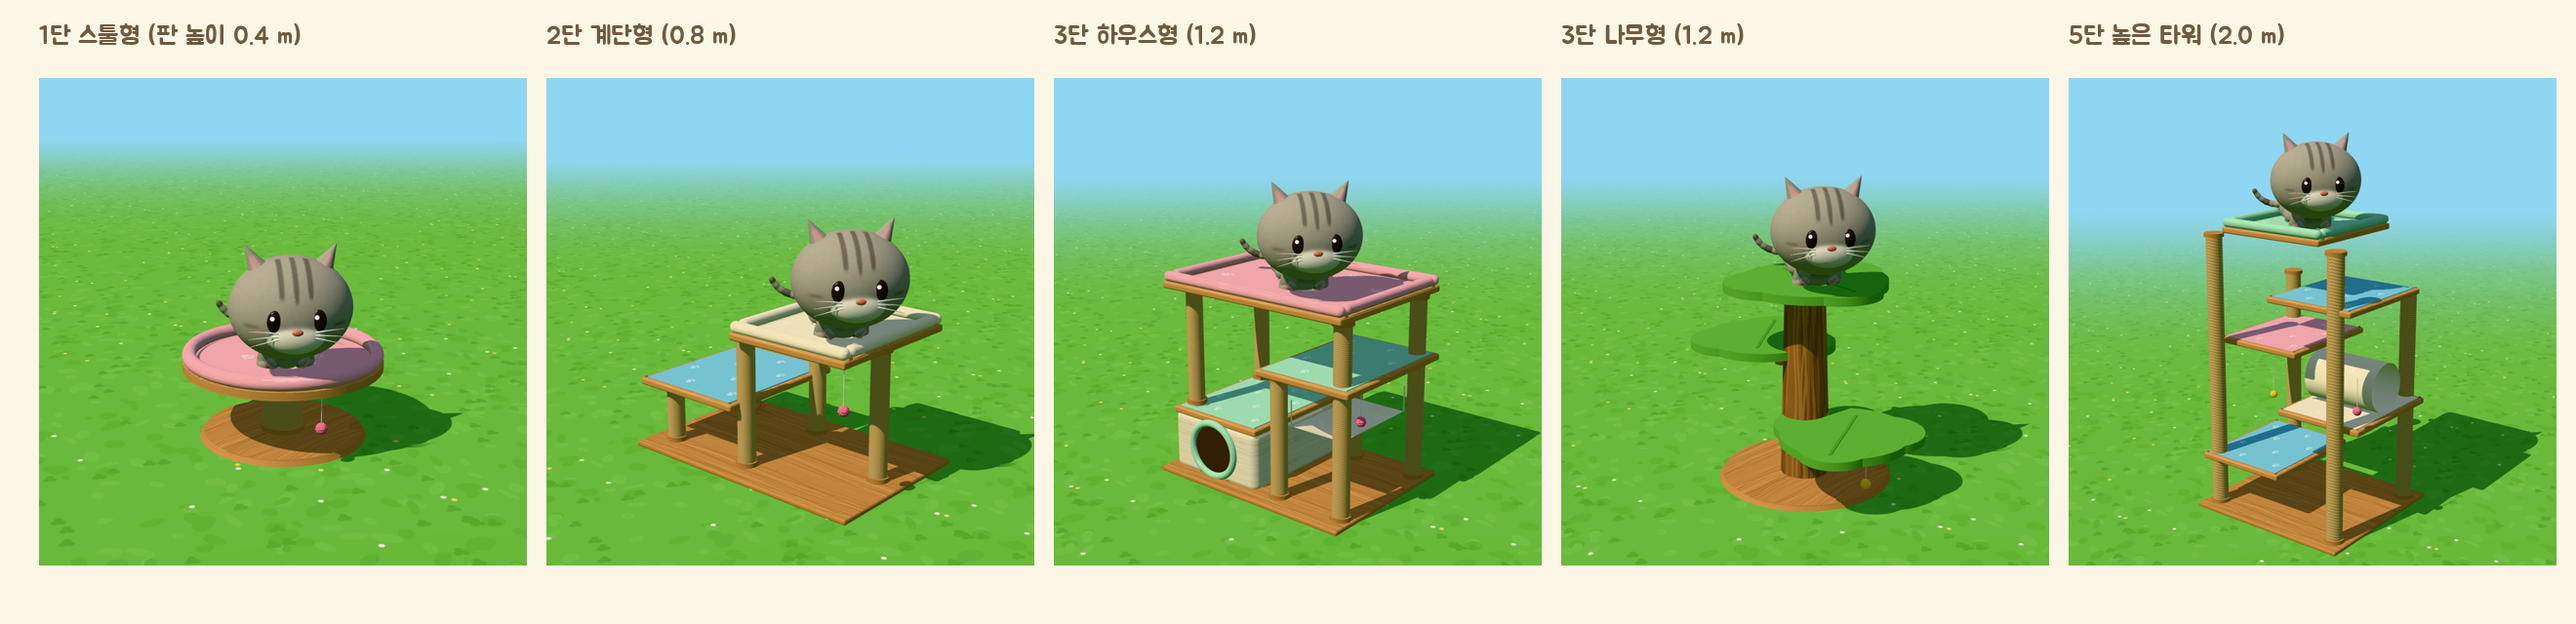
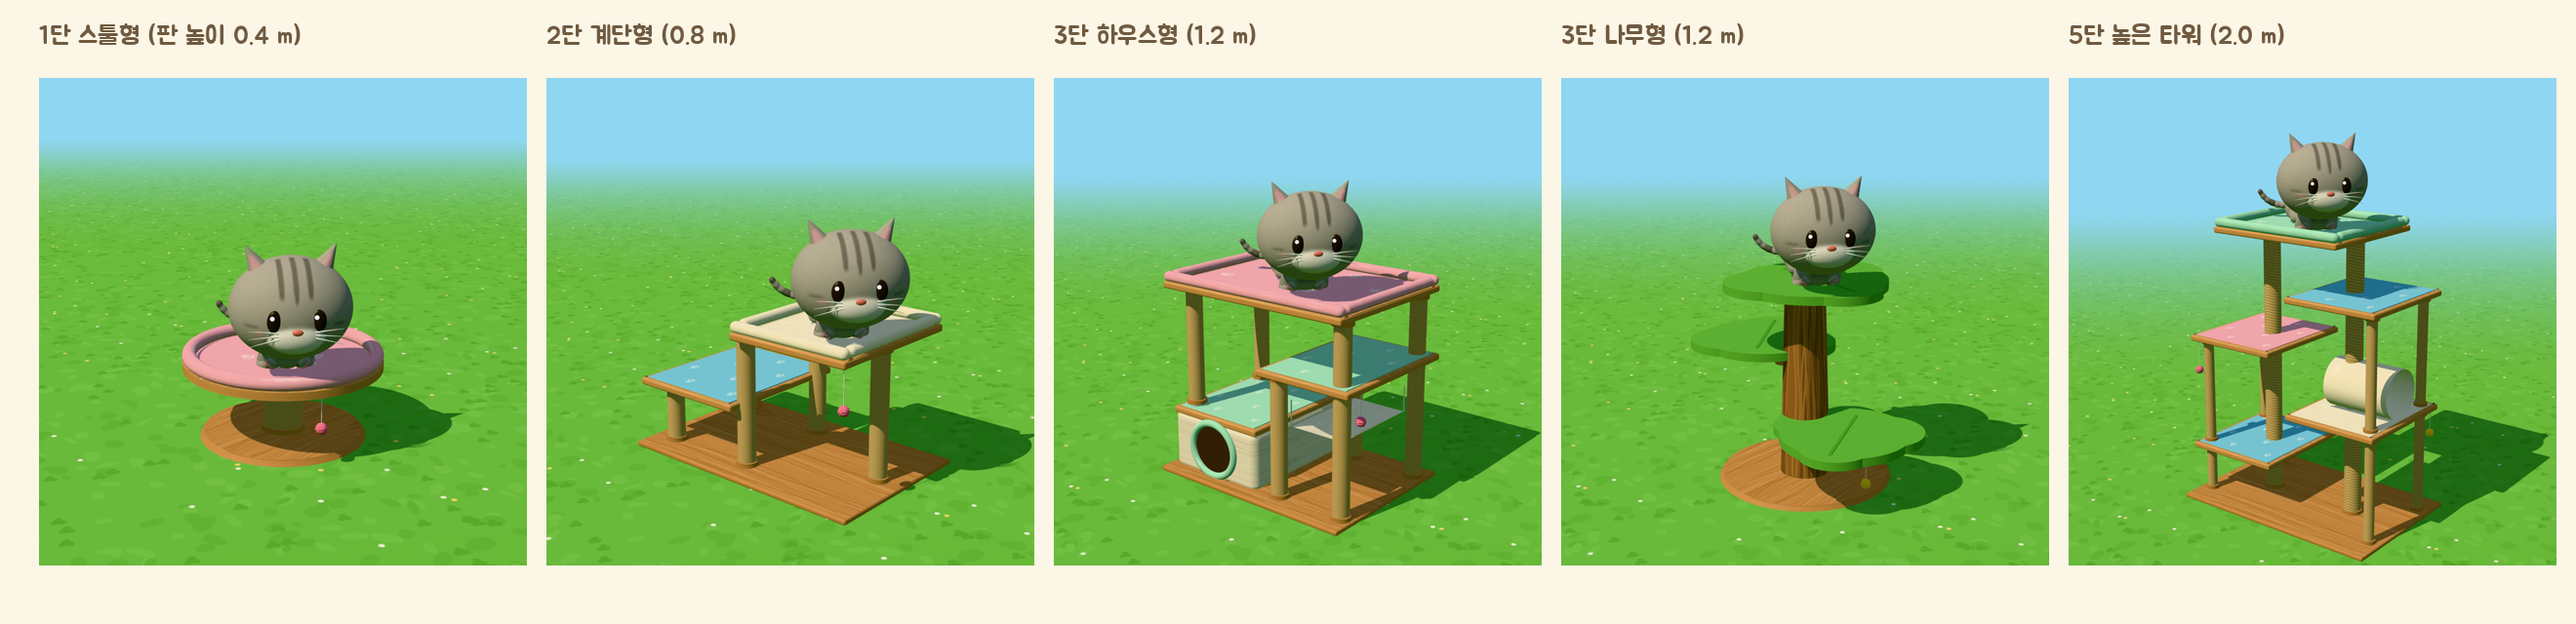
Cat tower 5-level: a real structure (two full-height columns through the decks, outer support posts, top bed on both columns, tunnel on level 2)
Claude-Session: https://claude.ai/code/session_015vjHDFNeuhZBMk9pB9WgeS

Changed region(s): [[0.8386, 0.2188, 0.9939, 0.9062]]

diff --git a/cat-island/prototype/3d/items_detail.html b/cat-island/prototype/3d/items_detail.html
@@ -246,12 +246,21 @@ const TOWERS = {
     for (const [x, y, z] of [[.38, STEP, .1], [-.36, 2 * STEP, -.05], [.05, 3 * STEP + .02, -.2]]) K.post(g, x * .55, z * .55, y - .14, y - .04, .035, K.M.bark);
     K.pompom(g, .6, STEP - .04, .2, .16, '#ffd23f'); } },
   // 5. tall: five levels, a tunnel on level two, toys
-  tall: { ko: '5단 높은 타워', top: [-.05, 5 * STEP, 0], build: g => { const K = KIT; K.base(g, 1.2, 1.1);
-    const L = [[-.25, .1, K.M.blue], [.3, -.05, K.M.cream], [-.25, -.1, K.M.pink], [.3, .05, K.M.blue], [-.05, 0, K.M.mint]];
-    K.post(g, -.5, -.42, .03, 4 * STEP - .04, .055); K.post(g, .5, .42, .03, 5 * STEP - .04, .055); K.post(g, .5, -.42, .03, 4 * STEP - .04, .055); K.post(g, -.5, .42, .03, 5 * STEP - .04, .055);
-    L.forEach(([x, z, m], i) => { const y = (i + 1) * STEP; K.deck(g, x, y, z, i === 4 ? .8 : .66, .8, m, i === 4); K.screws(g, x, y, z, .66, .8); });
-    const tun = K.add(g, new THREE.Mesh(new THREE.CylinderGeometry(.17, .17, .55, 32, 1, true), K.M.cream)); tun.material = K.M.cream.clone(); tun.material.side = THREE.DoubleSide; tun.rotation.z = Math.PI / 2; tun.position.set(.3, 2 * STEP + .17, -.05);
-    K.pompom(g, .62, 3 * STEP - .04, .35, .2); K.pompom(g, -.6, 2 * STEP - .04, -.3, .14, '#ffd23f'); } },
+  // two main sisal columns run the full height through the decks; left decks on levels 1 and 3, right decks on
+  // 2 and 4, each also held at its outer edge by a pair of short posts from the level below; a big bed on top
+  // rests on both columns; a tunnel lies on level 2
+  tall: { ko: '5단 높은 타워', top: [0, 5 * STEP, 0], build: g => { const K = KIT; K.base(g, 1.55, 1.0);
+    const H5 = 5 * STEP - .04;
+    K.post(g, -.35, 0, .03, H5, .06); K.post(g, .35, 0, .03, H5, .06);
+    const L = [[-.42, K.M.blue], [.42, K.M.cream], [-.42, K.M.pink], [.42, K.M.blue]];
+    L.forEach(([x, m], i) => {
+      const y = (i + 1) * STEP, side = Math.sign(x), y0 = i < 2 ? .03 : (i - 1) * STEP;   // outer posts stand on the base or on the same-side deck two levels down
+      K.deck(g, x, y, 0, .7, .8, m); K.screws(g, x, y, 0, .7, .8);
+      for (const z of [-.3, .3]) K.post(g, x + side * .27, z, y0, y - .04, .035);
+    });
+    K.deck(g, 0, 5 * STEP, 0, 1.0, .85, K.M.mint, true);
+    const tun = K.add(g, new THREE.Mesh(new THREE.CylinderGeometry(.17, .17, .5, 32, 1, true), K.M.cream)); tun.material = K.M.cream.clone(); tun.material.side = THREE.DoubleSide; tun.rotation.z = Math.PI / 2; tun.position.set(.47, 2 * STEP + .17, 0);
+    K.pompom(g, -.74, 3 * STEP - .04, .35, .2); K.pompom(g, .74, 2 * STEP - .04, -.35, .14, '#ffd23f'); } },
 };
 
 // ---------------------------------------------------------------- scene: the AC-direction island patch
